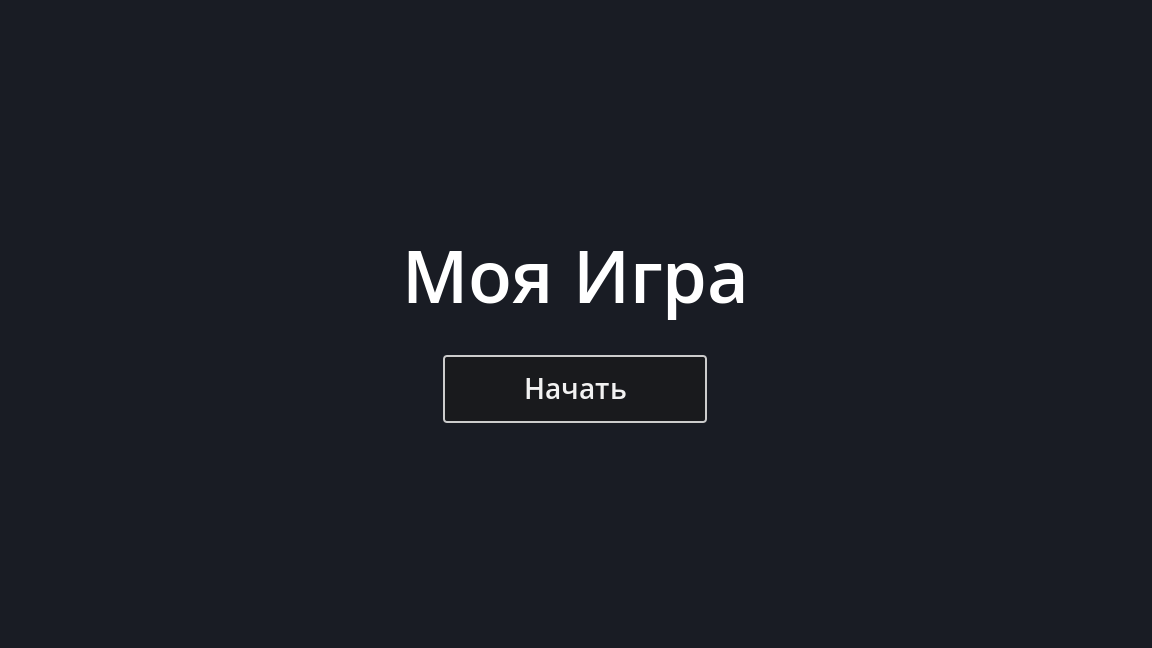
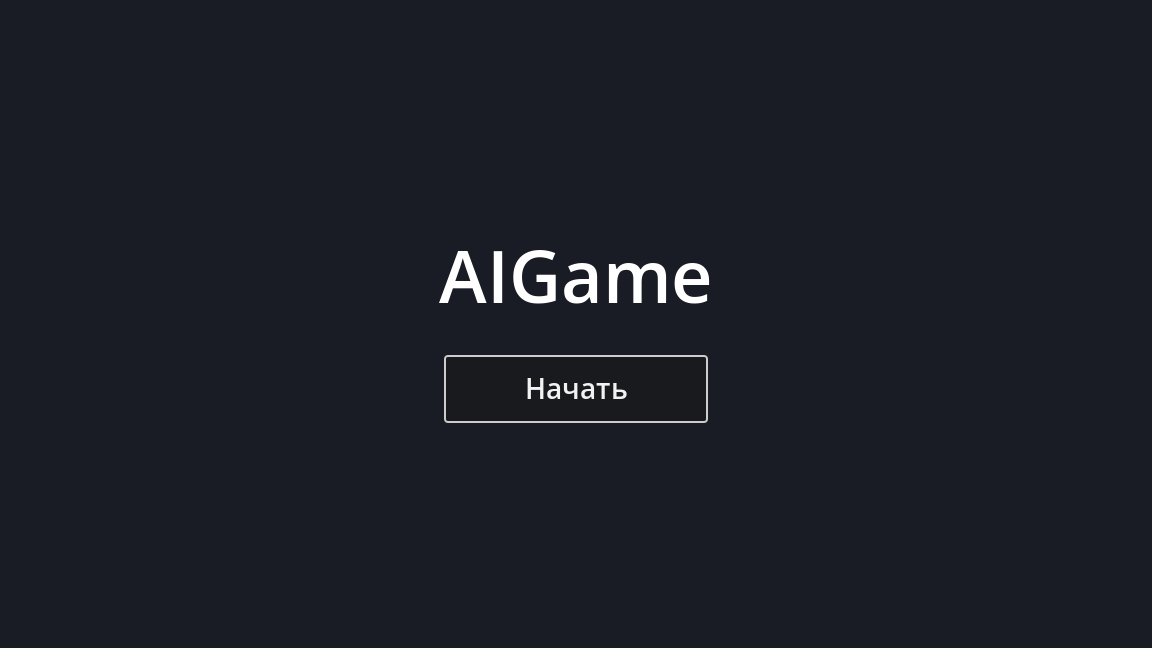
feat: rebrand menu to AIGame, bump to 1.0.1, add CI release pipeline

Changed region(s): [[0.3438, 0.3704, 0.6562, 0.4938], [0.4688, 0.5864, 0.5625, 0.6173]]

diff --git a/README.md b/README.md
@@ -1,6 +1,7 @@
 # AIGame
 
-[![Релиз v1.0.0](https://img.shields.io/badge/release-v1.0.0-2ea44f?style=flat-square&logo=github)](https://github.com/JERCYQUE/ai-game/releases/latest)
+[![Релиз](https://img.shields.io/github/v/release/JERCYQUE/ai-game?style=flat-square&logo=github&label=release&color=2ea44f)](https://github.com/JERCYQUE/ai-game/releases/latest)
+![Сборка](https://img.shields.io/github/actions/workflow/status/JERCYQUE/ai-game/release.yml?style=flat-square&logo=githubactions&logoColor=white&label=build)
 ![Godot](https://img.shields.io/badge/Godot-4.7-478cbf?style=flat-square&logo=godotengine&logoColor=white)
 ![Платформа](https://img.shields.io/badge/platform-Windows-0078d4?style=flat-square&logo=windows&logoColor=white)
 ![Создано ИИ](https://img.shields.io/badge/made%20by-AI%20agent-8250df?style=flat-square)
@@ -43,7 +44,7 @@
 
 Готовая сборка — в разделе [**Releases**](https://github.com/JERCYQUE/ai-game/releases/latest):
 
-**[⬇ AIGame.exe (104 МБ)](https://github.com/JERCYQUE/ai-game/releases/download/v1.0.0/AIGame.exe)**
+**[⬇ AIGame.exe (104 МБ)](https://github.com/JERCYQUE/ai-game/releases/latest/download/AIGame.exe)**
 
 Windows 10/11, x64. Установка не требуется: скачайте файл и запустите. Бинарник собран под Direct3D 12 (`Forward+`).
 
@@ -54,6 +55,18 @@ Windows 10/11, x64. Установка не требуется: скачайте
 3. Откройте папку проекта в Godot (`project.godot`) и нажмите **F5**.
 
 Сборка релиза — скриптом `tools/export_release.ps1` (нужны шаблоны экспорта Godot для Windows). Результат кладётся в `build/`, которая не попадает в git.
+
+## Автоматическая сборка
+
+Релизы собирает GitHub Actions (`.github/workflows/release.yml`). При пуше тега вида `v*` раннер скачивает Godot 4.7.2 и шаблоны экспорта для Windows, импортирует проект, собирает `.exe` и публикует его в Releases с автоматически сгенерированным описанием.
+
+И CI, и локальный скрипт перед экспортом убирают из `project.godot` автозагрузку `MCPRuntimeProbe`: её скрипт лежит в `addons/godot_mcp`, который исключён из сборки, и без этой правки собранная игра падала бы на старте.
+
+Чтобы выпустить новую версию:
+
+```bash
+git tag v1.0.2 && git push origin v1.0.2
+```
 
 ## Структура проекта
 
@@ -69,7 +82,8 @@ ai-game/
 ├── spark_particles.tscn/.gd # частицы искр
 ├── sounds/                  # 4 звука: монета, победа, поражение, поимка
 ├── docs/screenshots/        # скриншоты для этого README
-├── tools/export_release.ps1 # скрипт релизной сборки
+├── tools/export_release.ps1 # локальная релизная сборка
+├── .github/workflows/release.yml # CI: сборка exe и публикация релиза
 └── addons/godot_mcp/        # MCP-мост «редактор Godot ↔ ИИ-агент» (MIT)
 ```
 
